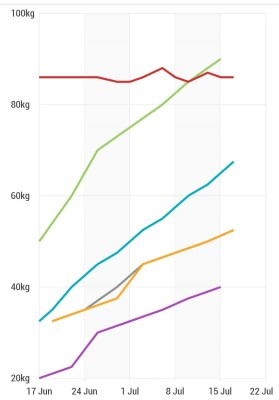
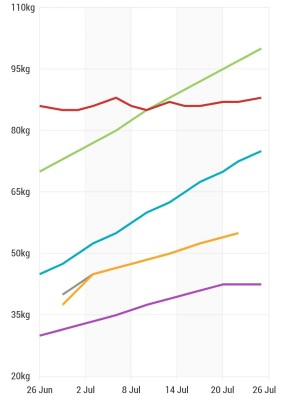
5x5

diff --git a/content/cybersecurity/_index.md b/content/cybersecurity/_index.md
@@ -18,6 +18,8 @@ shell, git, linux, OSINT, enumerating, port scanning, packet sniffing, vulnerabi
 
 ## red team
 
+### websites
+
 {{< thm-badge >}}
 
 #### [TryHackMe](red-team/tryhackme)
@@ -31,6 +33,8 @@ shell, git, linux, OSINT, enumerating, port scanning, packet sniffing, vulnerabi
 <!-- #### [picoCTF](red-team/picoctf) -->
 
 <!-- #### [Defend the Web](red-team/defendtheweb) -->
+
+### VMs
 
 #### [Metasploitable 2](red-team/metasploitable2)
 

diff --git a/content/health/5x5/20200720.md b/content/health/5x5/20200720.md
@@ -1,0 +1,19 @@
+---
+title: "w/c 2020-07-20"
+date: 2020-07-25
+---
+
+| day | exercise | weight (kg) | 5x5? |
+| --- | --- | --- | --- |
+| mon | squat | 70 | y |
+| mon | overhead press | 42.5 | n |
+| mon | deadlift | 95 | y |
+| wed | squat | 72.5 | y |
+| wed | bench press | 55 | y |
+| wed | barbell row | 55 | y |
+| fri | squat | 75 | y |
+| fri | overhead press | 42.5 | y |
+| fri | deadlift | 100 | y |
+
+---
+_note barbell is 1x5 not 5x5_
